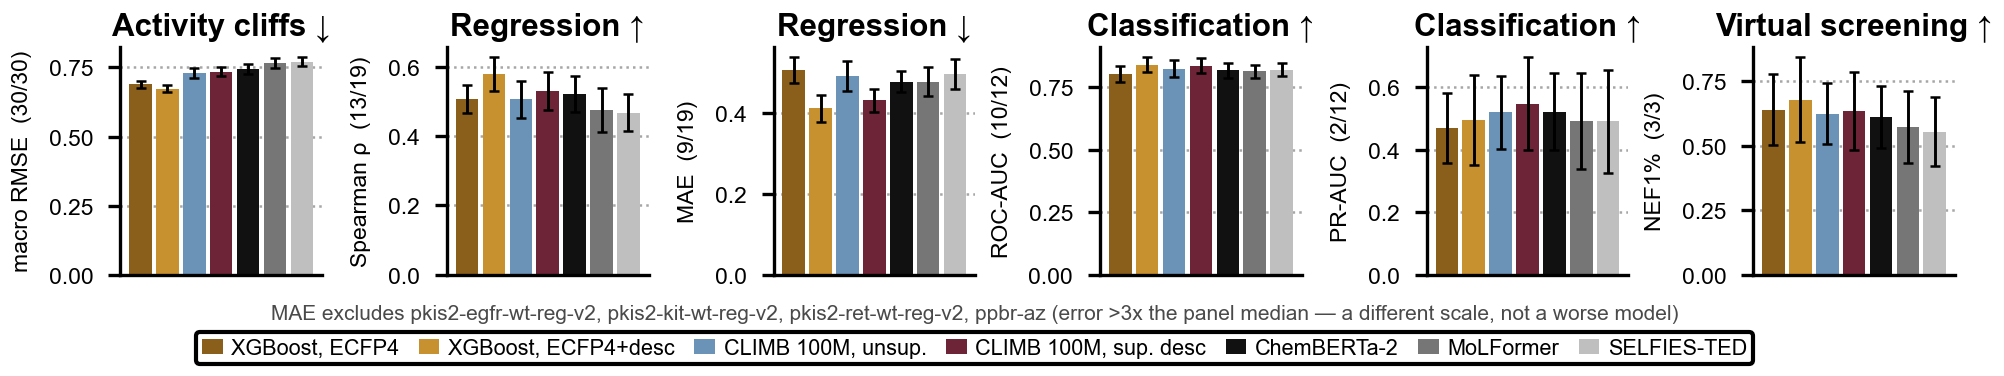
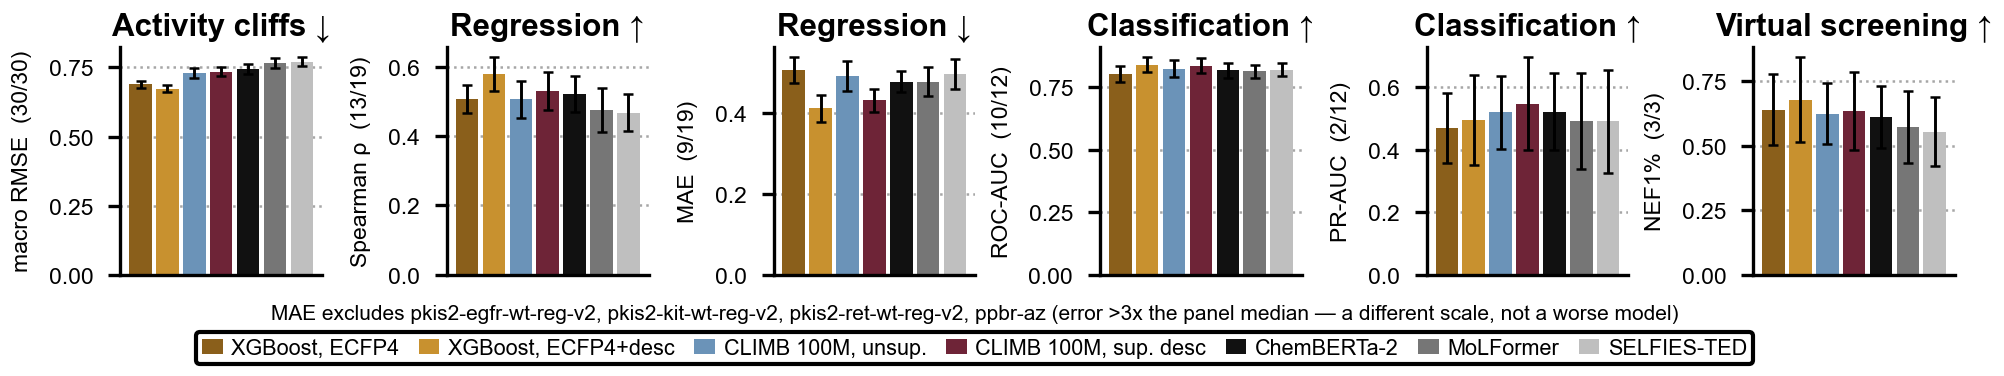
figures: no grey text anywhere, enforced at render time
SI_fig_g shipped two grey strings -- "in flight" at #7A7A7A and the footnote line at
#4A4A4A -- against a standing rule. Fixing only those would have left the rule being
enforced by whoever happens to look, so this fixes every instance and then makes the
rule a property of save().

Every offender found and fixed:
  SI_fig_g  #7A7A7A  "in flight" labels
  SI_fig_g  #4A4A4A  footnote lines under the legend
  fig_A     #7A7A7A  "awaiting Wong + FartDB"
  fig_A     #7A7A7A  row labels for arms with no data (x2, via `grey`)
  fig_F     #8A8A8A  "not run"
  fig_D     #222222  matrix cell text -> STYLE["ink"]
STYLE["mute"] was already #000000, so SI_fig_e was clean despite naming a mute colour.

Where grey was carrying de-emphasis (absent arms, not-run cells) the ITALIC already
beside it carries it instead, and fig_F's "not run" gains one. Italics survive
greyscale printing, a projector and a low-contrast viewer; grey text degrades into
"the renderer is broken" rather than into "this is de-emphasised".

THE GUARD IS ON THE RENDERED FIGURE, not on the source: style.check_text_is_ink()
walks fig.findobj(Text) and raises unless every visible string is black or white.
White is allowed -- fig_D picks white on dark cells from the colormap's own
luminance, which is contrast, not de-emphasis. Source-level greps could not have
caught these: all six were literal hexes at call sites, reachable by no central
constant. Wired into save(), so it runs for every figure in the set.
[…]

Changed region(s): [[0.1238, 0.8191, 0.8353, 0.8484]]

diff --git a/figures/style.py b/figures/style.py
@@ -8,6 +8,7 @@ from __future__ import annotations
 from pathlib import Path
 import matplotlib as mpl
 import matplotlib.pyplot as plt
+import matplotlib.text as mtext
 
 ROOT = Path(__file__).resolve().parent.parent
 OUTDIR = ROOT / "figures_v2"
@@ -168,6 +169,41 @@ def check_no_empty_panels(fig, name):
             f"resolving the wrong key (see the 2026-08-19 HIV panel bugs).")
 
 
+def check_text_is_ink(fig, name):
+    """RAISE if any visible text is drawn in a colour that is neither black nor white.
+
+    STANDING RULE FROM LEIF, restated 2026-10-08 after SI_fig_g shipped two grey strings:
+    NO GREY TEXT, EVER. Grey text is the one typographic choice that degrades in every
+    direction this paper is consumed -- greyscale printing, a projector, a reviewer's
+    low-contrast PDF viewer -- and it degrades into "my renderer is broken" rather than into
+    "this label is de-emphasised". De-emphasis belongs in italics, size or position, all of
+    which survive the trip.
+
+    THE CHECK IS ON THE RENDERED FIGURE, NOT ON THE SOURCE, because that is the only place the
+    rule is actually true or false. Four offenders had already accumulated behind a grep --
+    SI_fig_g #7A7A7A and #4A4A4A, fig_A #7A7A7A twice, fig_F #8A8A8A -- every one of them
+    spelled as a literal hex at a call site, which no central constant could have caught.
+    WHITE IS ALLOWED: fig_D's transfer matrix picks white text for dark cells from the
+    colormap's own luminance, which is contrast, not de-emphasis.
+    """
+    import matplotlib.colors as mcolors
+    bad = []
+    for t in fig.findobj(mtext.Text):
+        if not t.get_visible() or not (t.get_text() or "").strip():
+            continue
+        r, g, b, a = mcolors.to_rgba(t.get_color())
+        if a == 0:
+            continue
+        if (r, g, b) in ((0.0, 0.0, 0.0), (1.0, 1.0, 1.0)):
+            continue
+        bad.append((t.get_text()[:40].replace("\n", " "), mcolors.to_hex((r, g, b))))
+    assert not bad, (
+        f"{name}: text drawn in a non-ink colour -- grey text is forbidden, use INK and "
+        f"carry de-emphasis with italics or size instead. Offenders: "
+        + "; ".join(f"{txt!r} at {hexc}" for txt, hexc in bad[:8])
+        + (f" (+{len(bad) - 8} more)" if len(bad) > 8 else ""))
+
+
 def save(fig, name, formats=("png", "pdf"), subdir=None, wide=False):
     """Save to figures_v2/<name>.<ext>. Returns the PNG path.
 
@@ -182,6 +218,7 @@ def save(fig, name, formats=("png", "pdf"), subdir=None, wide=False):
     # they are kept out of figures_v2/ proper -- that folder should hold only what goes in the
     # paper.
     check_no_empty_panels(fig, name)
+    check_text_is_ink(fig, name)
     out = OUTDIR / subdir if subdir else OUTDIR
     out.mkdir(parents=True, exist_ok=True)
     for ext in formats:

diff --git a/figures/fig_A.py b/figures/fig_A.py
@@ -405,7 +405,7 @@ def main(weighting="dataset", name="fig_A", subdir=None):
             ax.axhspan(yi - 0.5, yi + 0.5, color=BAND, lw=0, zorder=0)
         if pending:
             ax.text(0.5 * (1 + nfield), yi, "awaiting Wong + FartDB", ha="center", va="center",
-                    fontsize=FS["annot"] - 0.5, color="#7A7A7A", style="italic", zorder=3)
+                    fontsize=FS["annot"] - 0.5, color=INK, style="italic", zorder=3)
         else:
             r = out.loc[a]
             for k in T.CATEGORIES:
@@ -433,14 +433,16 @@ def main(weighting="dataset", name="fig_A", subdir=None):
     # between-row whatever the row pitch.
     for yi, a in enumerate(order):
         sysname, sub, _ = _meta(a)
-        grey = "#7A7A7A" if a not in out.index else INK
+        # NO GREY TEXT ANYWHERE (Leif, standing rule). An arm with no data is distinguished by
+        # the italic below, which survives greyscale printing and a projector; grey text does
+        # not, and it reads as a rendering fault rather than as a statement.
         st = "italic" if a not in out.index else "normal"
         if a in short_prov:
             sysname = sysname + " *"
         ax.text(-0.012, yi - 0.21, sysname, transform=ytrans, ha="right", va="center",
-                fontsize=FS["tick"] - 0.4, fontweight="bold", color=grey, style=st)
+                fontsize=FS["tick"] - 0.4, fontweight="bold", color=INK, style=st)
         ax.text(-0.012, yi + 0.21, sub, transform=ytrans, ha="right", va="center",
-                fontsize=FS["tick"] - 1.3, color=grey, style=st)
+                fontsize=FS["tick"] - 1.3, color=INK, style=st)
     ax.set_yticks(range(len(order))); ax.set_yticklabels([])
     ax.tick_params(axis="y", length=0)
     ax.set_ylim(len(order) - 0.42, -0.62)

diff --git a/figures/SI_fig_g.py b/figures/SI_fig_g.py
@@ -282,7 +282,7 @@ def main():
             if a not in d.index or not np.isfinite(d.loc[a, "mean"]):
                 ax.text(xi, 0.02, "in flight", transform=ax.get_xaxis_transform(),
                         ha="center", va="bottom", rotation=90,
-                        fontsize=FS["annot"] - 2.5, color="#7A7A7A", style="italic", zorder=4)
+                        fontsize=FS["annot"] - 2.5, color=INK, style="italic", zorder=4)
                 continue
             r = d.loc[a]
             ax.bar(xi, r["mean"], width=0.84, color=c, edgecolor="none", zorder=2)
@@ -376,7 +376,7 @@ def main():
     for i, line in enumerate(notes):
         y_in = leg_top_in + NOTE_IN * (len(notes) - 1 - i) + 0.035
         fig.text(0.5, y_in / fig_h, line, ha="center", va="bottom",
-                 fontsize=FS["annot"] - 2.0, color="#4A4A4A")
+                 fontsize=FS["annot"] - 2.0, color=INK)
     fig.subplots_adjust(
         left=LEFT_IN / fig_w, right=1 - 0.02 / fig_w,
         bottom=(leg_top_in + NOTE_IN * len(notes) + GAP_IN) / fig_h,

diff --git a/figures/fig_D.py b/figures/fig_D.py
@@ -275,7 +275,7 @@ def draw(axB, axM, axS, data, tags=("a", "b", "c"), compact=False):
                 # cannot drift, because it is the same object imshow drew with.
                 lum = np.dot(mpl.colormaps["PuOr_r"](norm(v))[:3], (0.2126, 0.7152, 0.0722))
                 axM.text(j, i, f"{v:+.0f}", ha="center", va="center", fontsize=FS["annot"],
-                         color="white" if lum < 0.5 else "#222222")
+                         color="white" if lum < 0.5 else STYLE["ink"])
     # The scale is SYMLOG, so |20| and |30| sit almost on top of each other at the ends. On the
     # old vertical bar there was height to absorb that; horizontally the two labels collided into
     # "-3020". Five ticks, and the symlog knee (+-5) is kept because that is the tick that tells a

diff --git a/figures/fig_F.py b/figures/fig_F.py
@@ -799,7 +799,7 @@ def draw_panel(ax, d, p, compact=False, tag=None, fig=None, ylims=None, xrot=Non
             ax.bar([xi_], [y1 - y0], bottom=y0, width=bw, facecolor="none",
                    edgecolor=STYLE["grid"], linewidth=0.7, linestyle=(0, (2, 2)), zorder=2)
             ax.text(xi_, y0 + 0.5 * (y1 - y0), "not run", rotation=90, ha="center", va="center",
-                    fontsize=FS["annot"] - 2, color="#8A8A8A", zorder=4)
+                    fontsize=FS["annot"] - 2, color=INK, style="italic", zorder=4)
 
     # NO per-bar tick labels. Eleven of them do not fit at any panel width in this set, and they
     # would repeat what the colour already says -- the legend names the three embeddings once and
